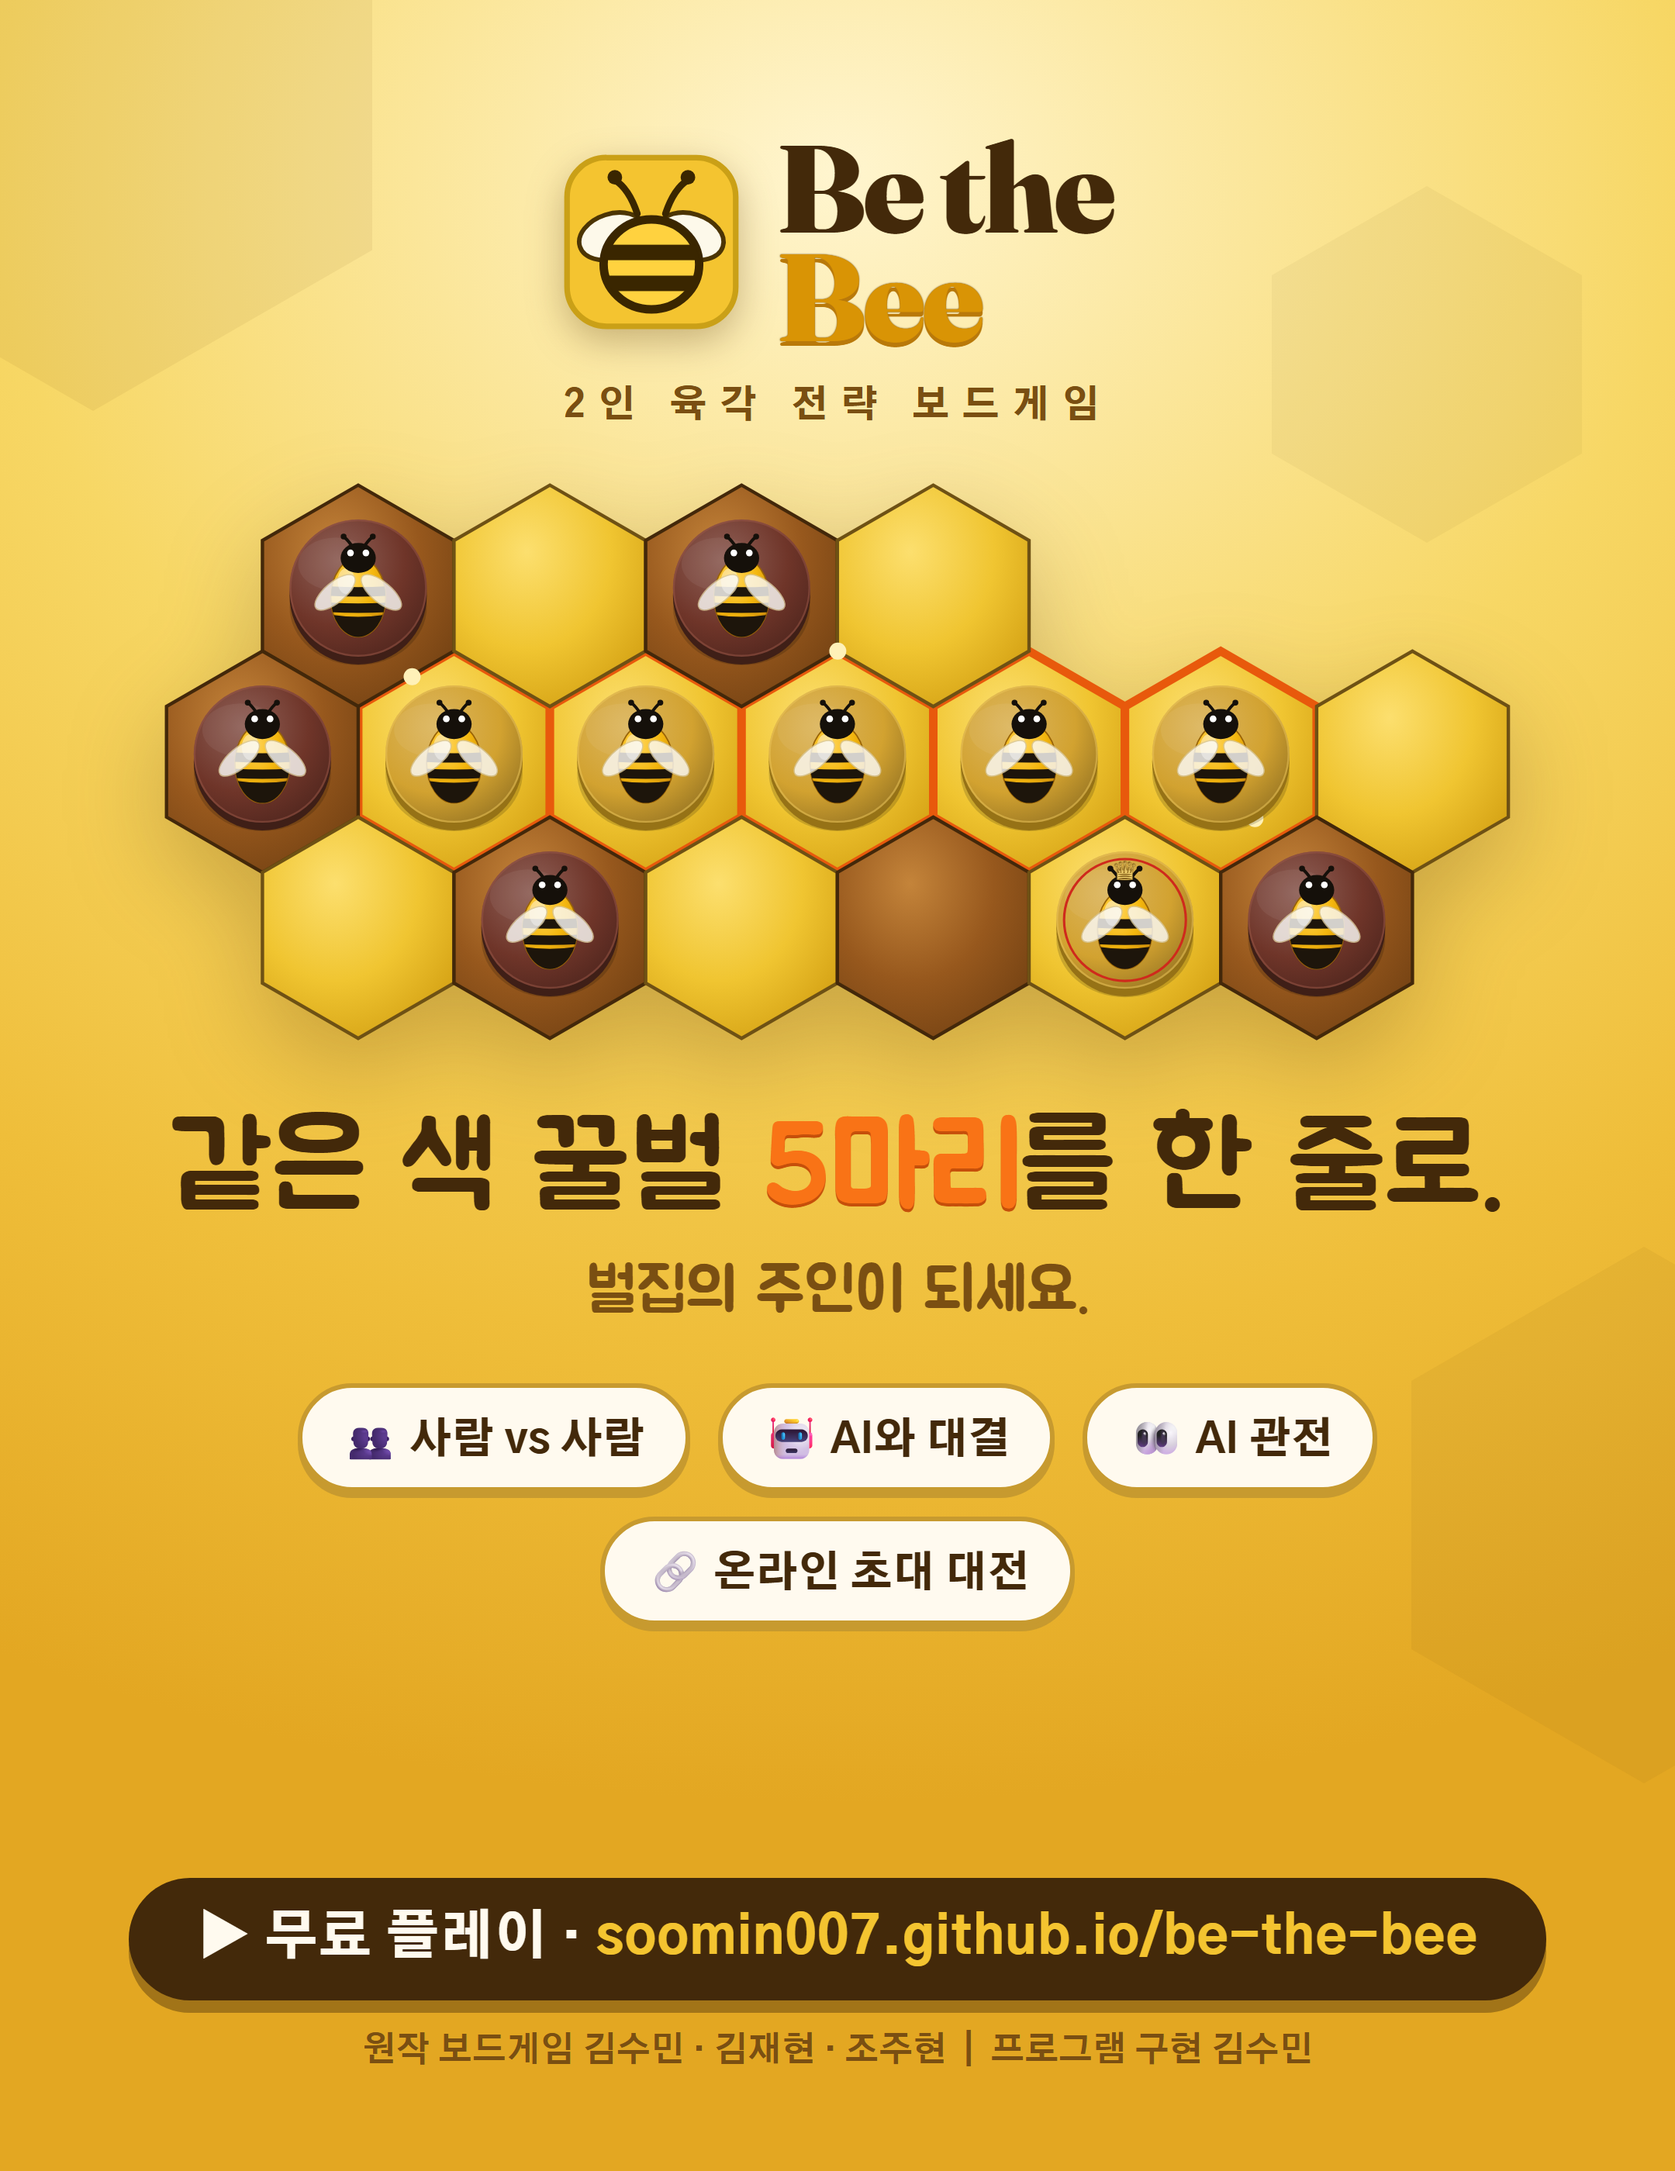
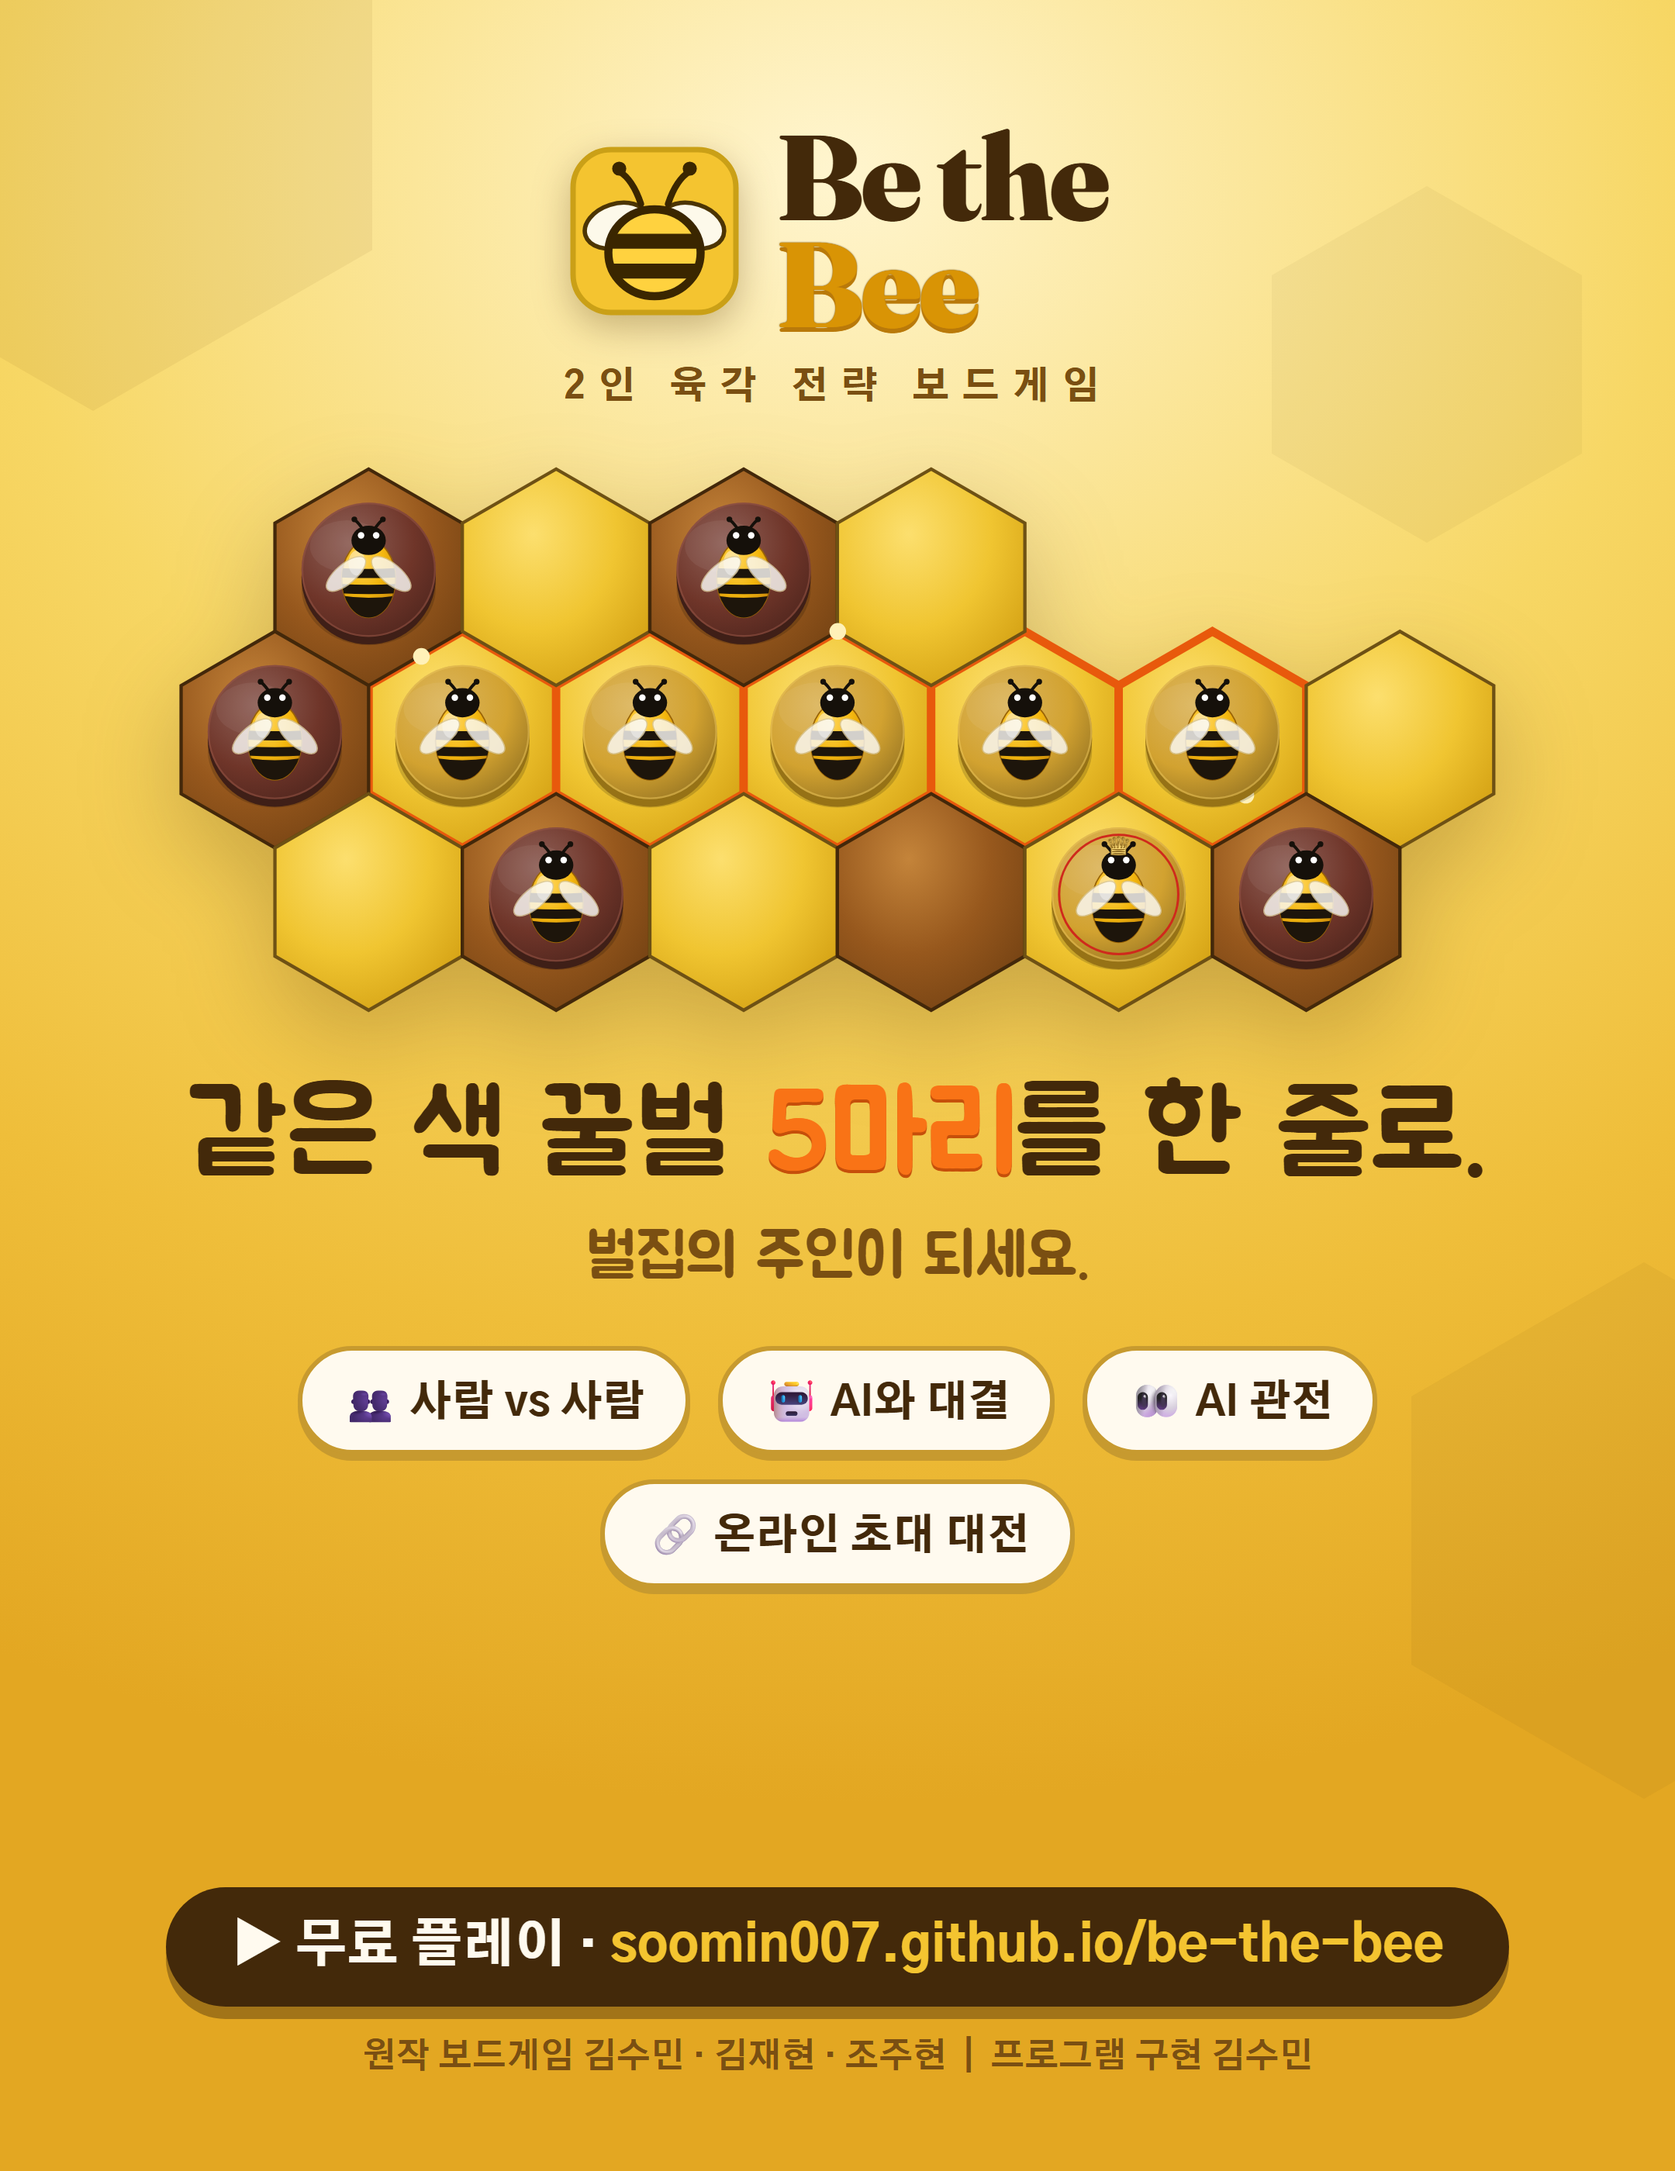
docs: 홍보용 포스터 다포맷 추가(가로 16:9·인스타 4:5·1:1)
- shot-poster.mjs: 포맷별 레이아웃으로 리팩터(공유 콘텐츠 조각 + portrait/square/wide 빌더)
- 산출물 public/: poster(세로 1080x1400)·poster-instagram(4:5 1080x1350)·
  poster-square(1:1 1080x1080)·poster-wide(가로 16:9 1920x1080), 모두 2x
- scripts/README: 포스터 항목 4종으로 갱신

diff --git a/scripts/README.md b/scripts/README.md
@@ -47,7 +47,7 @@
 | `shot-accordion.mjs` | 설정 아코디언 접힘/펼침 → `shots/panel-accordion.png`·`panel-accordion-view.png` |
 | `shot-tutorial.mjs` | 튜토리얼 표지/진행/TIP → `shots/tutorial-cover.png`·`tutorial-play.png`·`tutorial-tip.png` |
 | `shot-og.mjs` | 공유 미리보기·아이콘 생성(dev 불필요) → `public/og-cover.png`(1200×630)·`public/apple-touch-icon.png` |
-| `shot-poster.mjs` | 홍보용 세로 포스터 생성(dev 불필요, 게임 말 아트·꿀 팔레트 재사용) → `public/poster.png`(2160×2800) |
+| `shot-poster.mjs` | 홍보용 포스터 4종 생성(dev 불필요, 게임 말 아트·꿀 팔레트 재사용) → `public/poster.png`(세로 2160×2800)·`poster-instagram.png`(인스타 4:5)·`poster-square.png`(1:1)·`poster-wide.png`(가로 16:9 3840×2160) |
 
 ## 분석 도구 (Playwright 아님)
 | 파일 | 무엇 |
